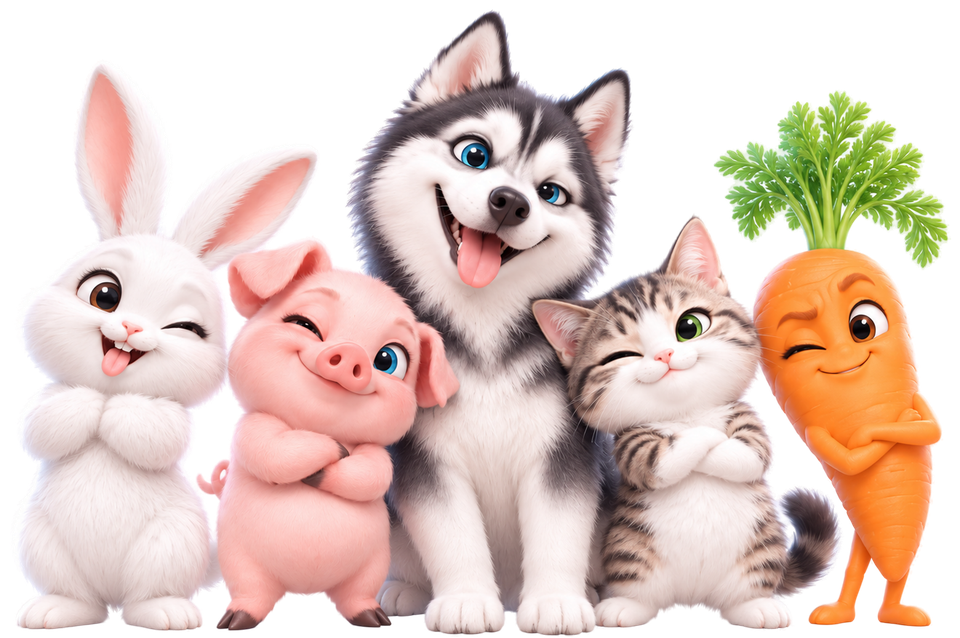
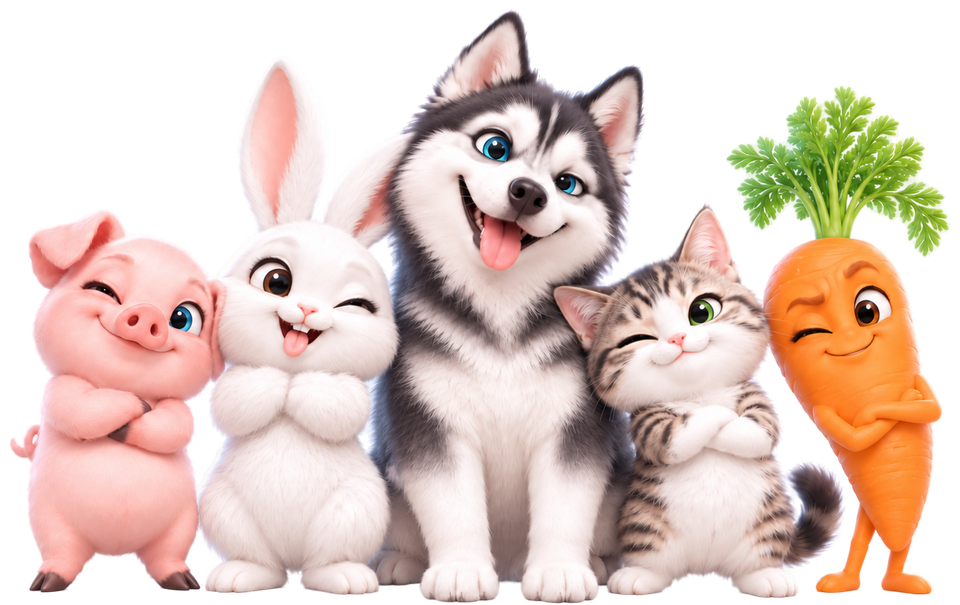
fix(login): 换用正确伙伴合照抠图（猪兔哈士奇猫胡萝卜）

diff --git a/app/globals.css b/app/globals.css
@@ -1849,7 +1849,7 @@ html[data-workspace=teacher] .bottom-nav button.active{color:#111827}
 .access-hero-copy h1 span{color:var(--access)}
 .access-hero-copy p{margin-top:14px;font-size:.95rem;line-height:1.75;color:#7a7383}
 .access-hero-copy{animation:hero-rise .7s cubic-bezier(.2,.7,.2,1) both}
-.access-hero-art{position:relative;aspect-ratio:1320/877;max-width:600px;width:100%;margin-top:auto;background:none;overflow:visible;animation:hero-rise .9s .1s cubic-bezier(.2,.7,.2,1) both}
+.access-hero-art{position:relative;aspect-ratio:960/605;max-width:600px;width:100%;margin-top:auto;background:none;overflow:visible;animation:hero-rise .9s .1s cubic-bezier(.2,.7,.2,1) both}
 .access-hero-glow{position:absolute;inset:-12% -8% 0;z-index:0;opacity:.6;background:radial-gradient(closest-side at calc(50% + var(--px)*30%) calc(40% + var(--py)*30%),color-mix(in srgb,var(--access) 16%,transparent),transparent 70%);transition:background .2s;pointer-events:none}
 .access-hero-img{position:absolute;inset:0;z-index:2;display:block;transform:translate3d(calc(var(--px)*-14px),calc(var(--py)*-10px),0);transition:transform .35s cubic-bezier(.2,.7,.2,1)}
 .access-hero-img img{width:100%;height:100%;object-fit:contain;object-position:50% 100%;filter:drop-shadow(0 10px 18px color-mix(in srgb,var(--access) 14%,transparent));animation:hero-float 6s ease-in-out infinite;user-select:none;-webkit-user-drag:none}

diff --git a/components/nexus/login.tsx b/components/nexus/login.tsx
@@ -45,8 +45,8 @@ export default function Login() {
         <div className="access-hero-art">
           <div className="access-hero-glow" aria-hidden="true"/>
           <picture className="access-hero-img">
-            <source type="image/webp" srcSet={`${CREW_SM} 720w, ${CREW_WEBP} 1320w`} sizes="(max-width: 900px) 90vw, 560px"/>
-            <img src={CREW_PNG} width={960} height={638} alt="B.E.S.T 的伙伴们：小兔、小猪、哈士奇、小猫和胡萝卜" decoding="async" fetchPriority="high"/>
+            <source type="image/webp" srcSet={`${CREW_SM} 720w, ${CREW_WEBP} 1375w`} sizes="(max-width: 900px) 90vw, 560px"/>
+            <img src={CREW_PNG} width={960} height={605} alt="B.E.S.T 的伙伴们：小猪、小兔、哈士奇、小猫和胡萝卜" decoding="async" fetchPriority="high"/>
           </picture>
           <span className="access-hero-shadow" aria-hidden="true"/>
           <span className="access-sparkle s1" aria-hidden="true"/><span className="access-sparkle s2" aria-hidden="true"/><span className="access-sparkle s3" aria-hidden="true"/>
